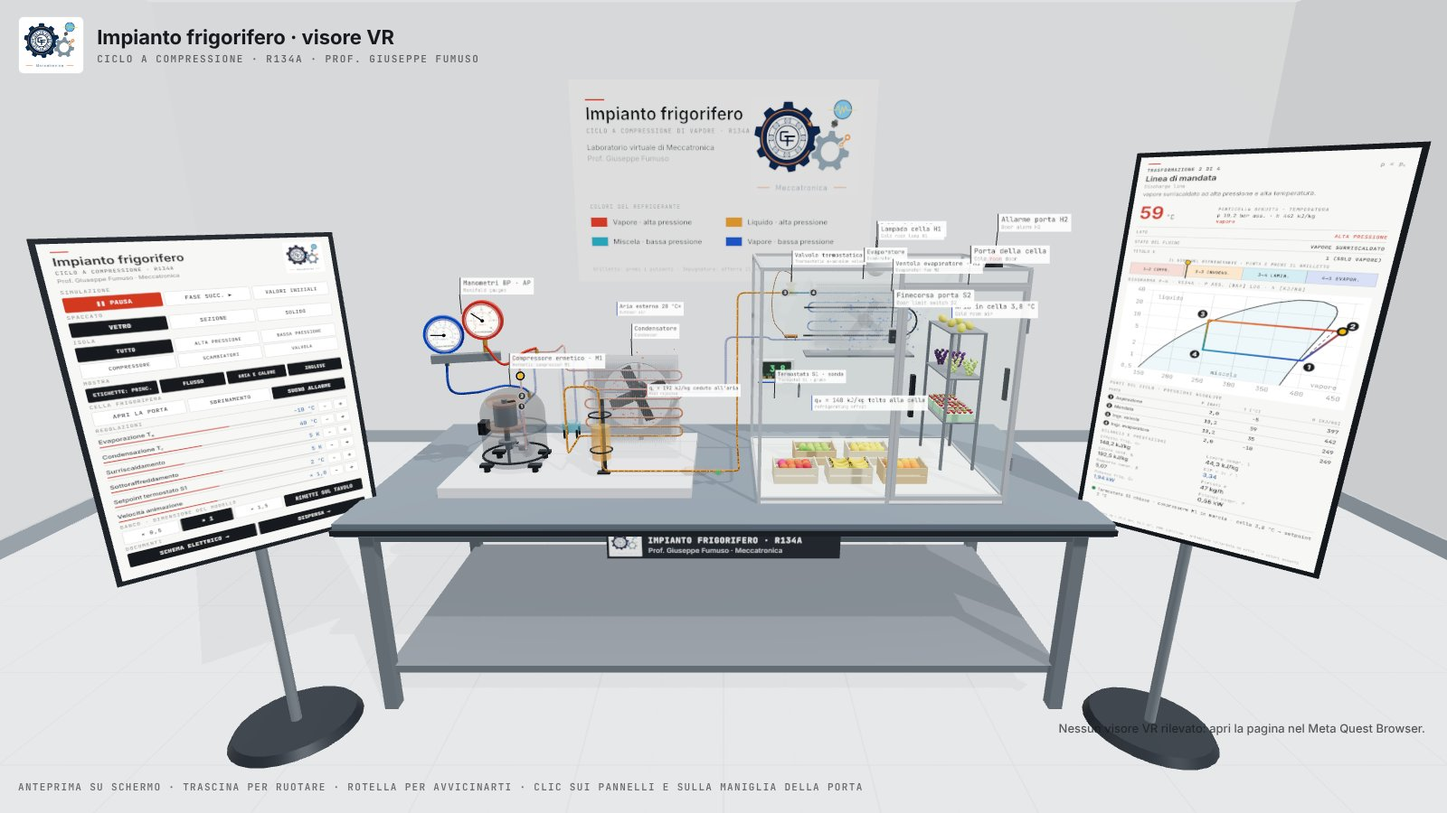
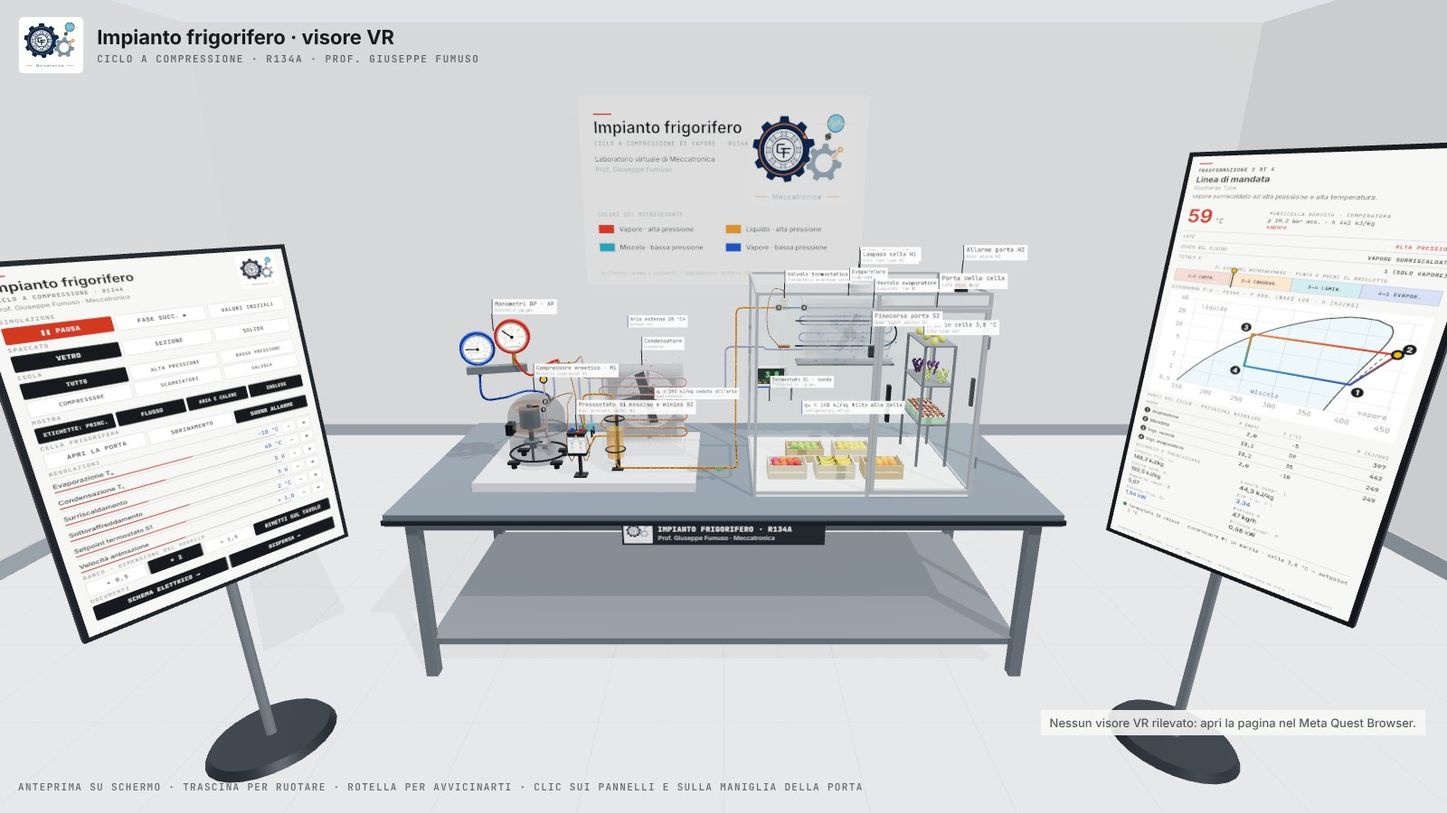
Pressostato di massima e minima B2 nel modello; pannelli riposizionati
- B2 con capillari su mandata e aspirazione, spie dei contatti e pulsante
  di riarmo P> (VR e simulatore 3D per PC)
- VR: pannelli laterali staccati dal banco, schema e dispensa davanti a
  destra e sempre in primo piano

Claude-Session: https://claude.ai/code/session_01RoLiFtmJP6vtpRuLRAKtBY

Changed region(s): [[0.0, 0.1556, 1.0, 0.9644], [0.4062, 0.1244, 0.5938, 0.2489], [0.9062, 0.7467, 0.9375, 0.7778]]

diff --git a/index.html b/index.html
@@ -410,7 +410,43 @@ hose('glp','#2c4fa8',[V(-1.0,0.51,0.20),V(-1.0,0.40,0.20),V(-0.98,0.33,0.0),V(-0
 hose('ghp','#b8321b',[V(-0.84,0.57,0.24),V(-0.78,0.50,0.24),V(-0.72,0.53,0.16),V(-0.69,0.535,0.115)]);
 add(cyl(0.006,0.006,0.022,10),mat('glp','brass','solid'),V(-0.82,0.266,-0.20));add(cyl(0.006,0.006,0.02,10),mat('ghp','brass','solid'),V(-0.69,0.52,0.11));
 
-const GZ=root.children.slice(GZ0);   // manometri, collettore e flessibili: visibili nelle viste d'insieme e del compressore
+const GZ=root.children.slice(GZ0);
+/* ---- pressostato combinato di massima e minima B2: P> sulla mandata (riarmo manuale), P< sull'aspirazione (riarmo automatico) ---- */
+const B2P=V(-0.60,0.205,0.245);
+const mB2=mat('b2','paint','solid'),mB2d=mat('b2','dark','solid'),mB2c=mat('b2','copper','solid'),mB2b=mat('b2','brass','solid');
+add(box(0.010,0.125,0.028),mB2d,V(B2P.x,0.1,B2P.z-0.03));                         // staffa sul basamento
+add(box(0.055,0.006,0.05),mB2d,V(B2P.x,0.043,B2P.z-0.03));
+add(box(0.075,0.092,0.048),mB2,B2P);                                               // corpo
+add(box(0.079,0.012,0.052),mB2d,V(B2P.x,B2P.y-0.046,B2P.z));
+add(box(0.079,0.006,0.052),mB2d,V(B2P.x,B2P.y+0.046,B2P.z));
+[-0.02,0.02].forEach((dx,i)=>{add(cyl(0.007,0.007,0.012,16),mat('b2',i?'hot':'cold','solid'),V(B2P.x+dx,B2P.y+0.055,B2P.z-0.008));   // viti di taratura P< (blu) e P> (rossa)
+  add(cyl(0.0035,0.0035,0.016,8),mB2b,V(B2P.x+dx,B2P.y-0.058,B2P.z-0.01));});                                                         // attacchi dei capillari
+const b2Cv=document.createElement('canvas');b2Cv.width=300;b2Cv.height=368;{const g=b2Cv.getContext('2d');
+  g.fillStyle='#e9ebec';g.fillRect(0,0,300,368);g.fillStyle='#16191d';g.fillRect(0,0,300,58);
+  g.fillStyle='#fff';g.font='700 34px "JetBrains Mono",monospace';g.textAlign='center';g.fillText('B2',150,42);
+  g.fillStyle='#16191d';g.font='600 21px "JetBrains Mono",monospace';g.fillText('PRESSOSTATO',150,92);
+  [[75,'#2456c8','P<','MIN','0,5 / 1,5'],[225,'#d2391f','P>','MAX','18 bar']].forEach(([x,c,a,b,t])=>{g.fillStyle=c;g.fillRect(x-62,112,124,8);
+    g.font='700 42px "JetBrains Mono",monospace';g.fillText(a,x,250);g.font='600 20px "JetBrains Mono",monospace';g.fillText(b,x,278);g.fillStyle='#566878';g.font='500 18px "JetBrains Mono",monospace';g.fillText(t,x,306);
+    g.strokeStyle='#16191d';g.lineWidth=3;g.beginPath();g.arc(x,165,26,0,7);g.stroke();});
+  g.fillStyle='#566878';g.font='500 16px "JetBrains Mono",monospace';g.fillText('bar rel. · R134a',150,350);}
+const b2Tex=new THREE.CanvasTexture(b2Cv);b2Tex.colorSpace=THREE.SRGBColorSpace;b2Tex.anisotropy=4;
+add(new THREE.PlaneGeometry(0.073,0.0895),new THREE.MeshBasicMaterial({map:b2Tex,toneMapped:false}),V(B2P.x,B2P.y,B2P.z+0.0245)).castShadow=false;
+const mLedL=mat('b2','dark','solid',null,{emissive:new THREE.Color('#20d060'),emissiveIntensity:1.2}),mLedH=mat('b2','dark','solid',null,{emissive:new THREE.Color('#20d060'),emissiveIntensity:1.2});
+add(new THREE.SphereGeometry(0.0052,14,10),mLedL,V(B2P.x-0.01825,B2P.y+0.0046,B2P.z+0.026));        // spia contatto P<
+add(new THREE.SphereGeometry(0.0052,14,10),mLedH,V(B2P.x+0.01825,B2P.y+0.0046,B2P.z+0.026));        // spia contatto P>
+const mRst=mat('b2','hot','solid',null,{emissive:new THREE.Color('#ff2a1a'),emissiveIntensity:0});
+add(cyl(0.0085,0.0085,0.007,20),mRst,V(B2P.x+0.006,B2P.y+0.0505,B2P.z+0.012));                                  // pulsante di riarmo P>
+var resetHit=new THREE.Mesh(box(0.03,0.03,0.04),new THREE.MeshBasicMaterial({transparent:true,opacity:0,depthWrite:false}));resetHit.position.set(B2P.x+0.006,B2P.y+0.055,B2P.z+0.012);root.add(resetHit);
+// capillari: P> alla linea di mandata, P< alla linea di aspirazione
+add(new THREE.TubeGeometry(new THREE.CatmullRomCurve3([V(B2P.x+0.02,B2P.y-0.066,B2P.z-0.01),V(B2P.x+0.03,B2P.y-0.085,B2P.z+0.0),V(B2P.x+0.045,B2P.y-0.05,B2P.z-0.02),V(-0.585,0.33,0.24),V(-0.615,0.45,0.20),V(-0.64,0.50,0.14),V(-0.645,0.513,0.112)]),90,0.0016,6),mB2c);
+add(new THREE.TubeGeometry(new THREE.CatmullRomCurve3([V(B2P.x-0.02,B2P.y-0.066,B2P.z-0.01),V(B2P.x-0.03,B2P.y-0.085,B2P.z+0.0),V(B2P.x-0.05,B2P.y-0.03,B2P.z-0.02),V(-0.645,0.30,0.20),V(-0.665,0.33,0.10),V(-0.685,0.33,-0.08),V(-0.76,0.30,-0.13),V(-0.81,0.272,-0.12),V(-0.82,0.258,-0.12)]),110,0.0016,6),mB2c);
+add(cyl(0.004,0.004,0.012,10),mB2b,V(-0.645,0.519,0.11));add(cyl(0.004,0.004,0.012,10),mB2b,V(-0.82,0.262,-0.12));
+function b2Update(now){const bl=now%700<350,on=cell.s0;
+  const led=(m,open)=>{m.emissive.set(open?'#ff2a1a':'#20d060');m.emissiveIntensity=!on?0:open?(bl?2.2:0.4):1.2;};
+  led(mLedL,cell.lpOpen);led(mLedH,cell.hpTrip);mRst.emissiveIntensity=cell.hpTrip&&on?(bl?1.6:0.5):0;}
+function doRearm(){if(cell.ph-ATM<14){cell.hpTrip=false;cell.simHp=false;}}
+
+   // manometri, collettore e flessibili: visibili nelle viste d'insieme e del compressore
 /* ---------- tubazioni: guscio di rame + fluido colorato ---------- */
 const RING=[];for(let i=0;i<PS.length;i+=2)RING.push(i);if(RING[RING.length-1]!==PS.length-1)RING.push(PS.length-1);const RS=8,NR=RING.length;
 function tubeGeo(scale){const pos=new Float32Array(NR*RS*3),nor=new Float32Array(NR*RS*3),col=new Float32Array(NR*RS*3).fill(1),idx=[];
@@ -438,7 +474,7 @@ const air=new THREE.InstancedMesh(new THREE.SphereGeometry(1,6,4),new THREE.Mesh
 /* ---------- stato dell'interfaccia ---------- */
 const UI={view:'insieme',cut:'vetro',iso:'tutto',lab:true,flow:true,air:true,en:true,run:true,speed:1,hidden:false};
 let C=cycle(-10,40,5,5);
-const ISO={tutto:null,ap:['comp','cond','liq','valv','ghp','dis'],bp:['comp','evap','valv','glp','suc','evin'],comp:['comp'],scamb:['cond','evap'],valv:['valv']};
+const ISO={tutto:null,ap:['comp','cond','liq','valv','ghp','dis','b2'],bp:['comp','evap','valv','glp','suc','evin','b2'],comp:['comp'],scamb:['cond','evap'],valv:['valv']};
 const ZGRP={comp:'comp',dis:'dis',cond:'cond',liq:'liq',tev:'valv',evin:'evin',evap:'evap',suc:'suc'};
 const inIso=g=>!ISO[UI.iso]||ISO[UI.iso].includes(g)||(g==='base'&&false);
 function applyLook(){
@@ -545,7 +581,7 @@ function cellMsg(s){let msg,cls='';
 function cellShort(s){let t,cls='';
   if(!s.s0){t='Q1 aperto · impianto senza tensione';cls='off';}
   else if(s.defrost){t='Sbrinamento T1 · resistenza E2 '+(s.heat?'inserita':'esclusa, sgocciolamento')+' · compressore e M3 fermi · ancora '+Math.ceil(DEF_T-s.dfT)+' s';cls='warn';}
-  else if(s.hpTrip){t='Pressostato di massima P> aperto · compressore fermo · riarmo nello schema elettrico';cls='crit';}
+  else if(s.hpTrip){t='Pressostato di massima P> aperto · compressore fermo · riarmo: pulsante sul pressostato o schema elettrico';cls='crit';}
   else if(s.lpOpen){t='Pressostato di minima P< aperto · compressore fermo';cls='crit';}
   else if(!s.th){t='Termostato S1 aperto · cella '+f(s.T)+' °C in temperatura · compressore fermo, riparte a '+f(s.sp+DIFF,0)+' °C';}
   else t='Termostato S1 chiuso · compressore M1 in marcia · cella '+f(s.T)+' °C → setpoint '+f(s.sp,0)+' °C';
@@ -745,7 +781,7 @@ function drawSch(p,g){const s=cell;updSchema();
   LEGEND.forEach((l,i)=>{const x=24+(i>=8?568:0),yy=y+(i%8)*31+26;T(g,l[0],x,yy,`700 18px ${FS}`,CI.ink);g.font=`400 18px ${FS}`;let t=l[1];while(g.measureText(t).width>430&&t.length>4)t=t.slice(0,-2)+'…';T(g,t,x+116,yy,`400 18px ${FS}`,CI.dim);});
   const X=1180,Wc=p.w-X-24;let yy=112;cap(g,'Comandi',X,yy);yy+=12;
   const bt=[['xS0','Q1 · Interruttore principale',()=>{cell.s0=!cell.s0;dirtyAll();},{on:s.s0}],['xDoor',s.door?'Chiudi la porta':'Apri la porta',()=>doDoor(),{kind:s.door?'crit':undefined}],['xDef',s.defrost?'Sbrinamento… '+Math.ceil(DEF_T-s.dfT)+' s':'Avvia sbrinamento T1',doDefrost,{on:s.defrost}],
-    ['xFHp','Simula intervento P>',()=>{cell.hpTrip=true;cell.simHp=true;dirtyAll();},{kind:s.hpTrip&&s.simHp?'crit':undefined}],['xRearm','Riarmo P>',()=>{if(cell.ph-ATM<14){cell.hpTrip=false;cell.simHp=false;}dirtyAll();}],
+    ['xFHp','Simula intervento P>',()=>{cell.hpTrip=true;cell.simHp=true;dirtyAll();},{kind:s.hpTrip&&s.simHp?'crit':undefined}],['xRearm','Riarmo P>',()=>{doRearm();dirtyAll();}],
     ['xFLp',s.fLp?'Rilascia P<':'Apri P<',()=>{cell.fLp=!cell.fLp;dirtyAll();},{kind:s.fLp?'crit':undefined}]];
   bt.forEach((b,i)=>{B(p,b[0],X,yy+i*54,Wc,46,b[1],b[2],{fs:17,...(b[3]||{})});});yy+=6*54+12;
   cap(g,'Ventola evaporatore M3',X,yy);yy+=12;B(p,'xCont',X,yy,Wc/2-5,46,'Continua',()=>{cell.fanMode='cont';dirtyAll();},{on:s.fanMode==='cont',fs:16});B(p,'xPar',X+Wc/2+5,yy,Wc/2-5,46,'Con compr.',()=>{cell.fanMode='par';dirtyAll();},{on:s.fanMode==='par',fs:16});yy+=62;
@@ -832,9 +868,10 @@ function drawDoc(p,g){g.fillStyle=CI.ink;g.fillRect(0,0,p.w,84);if(LOGO){g.fillS
   if(UI.doc==='sch')drawSch(p,g);else if(UI.doc==='disp')drawDisp(p,g);else if(UI.doc==='quiz')drawQuiz(p,g);}
 function openFull(){const go=()=>{location.href='dispensa-impianti-frigoriferi.html';};const s=XRM.getSession();if(s){s.end().then(go,go);}else window.open('dispensa-impianti-frigoriferi.html','_blank');}
 
-const cmdP=makePanel(1024,1420,0.74,V(-1.62,1.24,-0.74),0.72,drawCmd);
-const datP=makePanel(1024,1900,0.68,V(1.62,1.38,-0.74),-0.72,drawDat,true,0.8);
-const docP=makePanel(1600,1000,1.70,V(2.15,1.55,-2.10),-0.95,drawDoc,false);docP.mesh.visible=docP.frame.visible=false;
+const cmdP=makePanel(1024,1420,0.82,V(-1.80,1.26,-0.45),1.0,drawCmd);
+const datP=makePanel(1024,1900,0.76,V(1.80,1.44,-0.45),-1.0,drawDat,true,0.8);
+const docP=makePanel(1600,1000,1.85,V(0.95,1.72,-1.45),-0.58,drawDoc,false);docP.mesh.visible=docP.frame.visible=false;
+[[docP.mesh,31],[docP.frame,30]].forEach(([o,r])=>{o.material.depthTest=false;o.material.transparent=true;o.renderOrder=r;});   // finestra sempre in primo piano
 /* targa con logo sul fronte del banco e poster sulla parete */
 function canvasPlane(w,h,mw,draw){const cv=document.createElement('canvas');cv.width=w;cv.height=h;const g=cv.getContext('2d');draw(g,w,h);const t=new THREE.CanvasTexture(cv);t.colorSpace=THREE.SRGBColorSpace;t.anisotropy=8;
   const m=new THREE.Mesh(new THREE.PlaneGeometry(mw,mw*h/w),new THREE.MeshStandardMaterial({map:t,roughness:0.8}));m.receiveShadow=true;LAB.add(m);return m;}
@@ -859,7 +896,7 @@ const LBL=[
  ['Linea del liquido','Liquid line',V(0.08,0.40,-0.25),0],['Linea di mandata','Discharge line',V(-0.69,0.53,0.11),0],['Cella frigorifera','Cold room',V(0.60,0.87,0.0),1],['Termostato S1 · sonda','Thermostat S1 · probe',V(0.25,0.215,-0.33),1],
  ['Porta della cella','Cold room door',V(0.84,0.80,0.36),1],['Finecorsa porta S2','Door limit switch S2',V(0.60,0.65,0.33),1],['Lampada cella H1','Cold room lamp H1',V(0.60,0.86,0.02),1],['Allarme porta H2','Door alarm H2',V(0.95,0.90,0.28),1],
  ['Resistenza di sbrinamento E2','Defrost heater E2',V(0.47,0.52,-0.232),0],['Bacinella raccolta condensa','Condensate drain pan',V(0.78,0.44,-0.20),0],['Resistenza carter E1','Crankcase heater E1',V(-0.80,0.09,0.18),0],['Scatola morsettiera','Terminal box',V(-0.955,0.22,0.02),0],
- ['Manometro bassa pressione','Low-pressure gauge',V(-1.0,0.67,0.20),0],['Manometro alta pressione','High-pressure gauge',V(-0.84,0.73,0.24),0],['Collettore manometrico','Gauge manifold',V(-0.92,0.535,0.215),0],['Basamento unità condensatrice','Condensing unit base',V(-0.30,0.04,0.28),0]];
+ ['Manometro bassa pressione','Low-pressure gauge',V(-1.0,0.67,0.20),0],['Manometro alta pressione','High-pressure gauge',V(-0.84,0.73,0.24),0],['Collettore manometrico','Gauge manifold',V(-0.92,0.535,0.215),0],['Basamento unità condensatrice','Condensing unit base',V(-0.30,0.04,0.28),0],['Pressostato di massima e minima B2','Dual pressure switch B2',V(-0.60,0.262,0.25),1]];
 function labelCanvas(a,b,col=CI.ink){const cv=document.createElement('canvas'),g=cv.getContext('2d');const f1=`600 44px ${FM}`,f2=`500 32px ${FM}`;g.font=f1;let w=g.measureText(a).width;if(b){g.font=f2;w=Math.max(w,g.measureText(b).width);}
   cv.width=Math.ceil(w+44);cv.height=b?112:70;g.fillStyle='rgba(255,255,255,.9)';g.fillRect(0,0,cv.width,cv.height);g.fillStyle=col;g.fillRect(0,0,7,cv.height);T(g,a,24,b?50:50,f1,CI.ink);if(b)T(g,b,24,94,f2,CI.mute);return cv;}
 function spriteFrom(cv,center=[0,0]){const t=new THREE.CanvasTexture(cv);t.colorSpace=THREE.SRGBColorSpace;t.anisotropy=4;const s=new THREE.Sprite(new THREE.SpriteMaterial({map:t,depthTest:false,depthWrite:false,transparent:true,toneMapped:false}));
@@ -889,18 +926,18 @@ function ctrlModel(){const g=new THREE.Group(),m=lm('#2b3137',0.45,0.3),m2=lm('#
   const body=new THREE.Mesh(new THREE.CylinderGeometry(0.018,0.022,0.11,16),m);body.rotation.x=Math.PI/2-0.5;body.position.set(0,-0.02,0.04);g.add(body);
   const ring=new THREE.Mesh(new THREE.TorusGeometry(0.038,0.006,8,28),m2);ring.position.set(0,0.008,-0.01);ring.rotation.x=0.6;g.add(ring);return g;}
 const CTRL=[0,1].map(i=>{const c=XRM.getController(i),gr=XRM.getControllerGrip(i);scene.add(c,gr);gr.add(ctrlModel());
-  const line=new THREE.Line(new THREE.BufferGeometry().setFromPoints([V(0,0,0),V(0,0,-1)]),new THREE.LineBasicMaterial({color:CI.lamp,transparent:true,opacity:0.9}));line.scale.z=3;c.add(line);
-  const dot=new THREE.Mesh(new THREE.SphereGeometry(0.008,12,8),new THREE.MeshBasicMaterial({color:CI.lamp,toneMapped:false}));dot.visible=false;scene.add(dot);
+  const line=new THREE.Line(new THREE.BufferGeometry().setFromPoints([V(0,0,0),V(0,0,-1)]),new THREE.LineBasicMaterial({color:CI.lamp,transparent:true,opacity:0.9,depthTest:false}));line.scale.z=3;line.renderOrder=40;c.add(line);
+  const dot=new THREE.Mesh(new THREE.SphereGeometry(0.008,12,8),new THREE.MeshBasicMaterial({color:CI.lamp,toneMapped:false,transparent:true,depthTest:false}));dot.renderOrder=41;dot.visible=false;scene.add(dot);
   const o={i,c,gr,line,dot,src:null,prev:[],hit:null,hand:''};
   c.addEventListener('connected',e=>{o.src=e.data;o.hand=e.data.handedness||'';});c.addEventListener('disconnected',()=>{o.src=null;if(stage.parent===c)scene.attach(stage);});
   c.addEventListener('selectstart',()=>{audioInit();if(o.hit)press(o.hit,o);});
   c.addEventListener('squeezestart',()=>{c.attach(stage);pulse(0.4,40,o);});c.addEventListener('squeezeend',()=>{if(stage.parent===c){scene.attach(stage);dirtyAll();}});
   return o;});
 function pulse(v=0.5,ms=30,o){const L=o?[o]:CTRL;L.forEach(c=>{try{c.src?.gamepad?.hapticActuators?.[0]?.pulse(v,ms);}catch(e){}});}
-function targets(){const t=[cmdP.mesh,datP.mesh,handleHit];if(docP.mesh.visible)t.push(docP.mesh);return t;}
-function resolve(hit){if(!hit)return null;if(hit.object===handleHit)return{kind:'door'};const p=hit.object.userData.panel;if(!p||!hit.uv)return{kind:'panel',p};
+function targets(){const t=[cmdP.mesh,datP.mesh,handleHit,resetHit];if(docP.mesh.visible)t.push(docP.mesh);return t;}
+function resolve(hit){if(!hit)return null;if(hit.object===handleHit)return{kind:'door'};if(hit.object===resetHit)return{kind:'b2'};const p=hit.object.userData.panel;if(!p||!hit.uv)return{kind:'panel',p};
   const x=hit.uv.x*p.w,y=(1-hit.uv.y)*p.h;const b=p.btns.find(b=>x>=b.x&&x<=b.x+b.w&&y>=b.y&&y<=b.y+b.h);return{kind:'panel',p,b,u:b?(x-b.x)/b.w:0};}
-function press(h,o){if(h.kind==='door'){doDoor();pulse(0.5,40,o);return;}if(h.b){h.b.act(h.u);h.p.dirty=true;pulse(0.35,25,o);}}
+function press(h,o){if(h.kind==='door'){doDoor();pulse(0.5,40,o);return;}if(h.kind==='b2'){doRearm();dirtyAll();pulse(0.5,40,o);return;}if(h.b){h.b.act(h.u);h.p.dirty=true;pulse(0.35,25,o);}}
 function rayFrom(obj){_m4.identity().extractRotation(obj.matrixWorld);ray.ray.origin.setFromMatrixPosition(obj.matrixWorld);ray.ray.direction.set(0,0,-1).applyMatrix4(_m4);return ray.intersectObjects(targets(),false)[0]||null;}
 const btnOnce=(o,n)=>{const v=!!o.src?.gamepad?.buttons[n]?.pressed,was=o.prev[n];o.prev[n]=v;return v&&!was;};
 const dz=v=>Math.abs(v)<0.2?0:(v-Math.sign(v)*0.2)/0.8;
@@ -915,13 +952,13 @@ function xrInput(dt){const hov=new Map();let handHov=false;
   return{hov,handHov};}
 
 /* ---------- anteprima su schermo: orbita, clic sui pannelli ---------- */
-const orb={t:V(0,1.12,-1.15),az:0,el:0.30,d:2.6};let orbGoal=null,orbHome=null;
+const orb={t:V(0,1.12,-1.15),az:0,el:0.30,d:3.1};let orbGoal=null,orbHome=null;
 function focusDoc(on){if(XRM.isPresenting)return;if(on){if(!orbHome)orbHome={t:orb.t.clone(),az:orb.az,el:orb.el,d:orb.d};const yaw=docP.grp.rotation.y;orbGoal={t:docP.grp.position.clone(),az:yaw,el:0.06,d:Math.max(1.25,1.0/Math.tan(camera.fov*Math.PI/360)*0.6,0.95/(Math.tan(camera.fov*Math.PI/360)*camera.aspect))};}else if(orbHome){orbGoal=orbHome;orbHome=null;}}
 function orbitCam(){camera.position.set(orb.t.x+orb.d*Math.sin(orb.az)*Math.cos(orb.el),orb.t.y+orb.d*Math.sin(orb.el),orb.t.z+orb.d*Math.cos(orb.az)*Math.cos(orb.el));camera.lookAt(orb.t);}
 const mouse=new THREE.Vector2();let mHit=null,drag=null;
 function mouseHit(e){const r=canvas.getBoundingClientRect();mouse.set((e.clientX-r.left)/r.width*2-1,-(e.clientY-r.top)/r.height*2+1);ray.setFromCamera(mouse,camera);return resolve(ray.intersectObjects(targets(),false)[0]||null);}
-canvas.addEventListener('pointerdown',e=>{audioInit();if(XRM.isPresenting)return;const h=mouseHit(e);if(h&&(h.b||h.kind==='door')){press(h);return;}orbGoal=null;drag={x:e.clientX,y:e.clientY,az:orb.az,el:orb.el,b:e.button,t:orb.t.clone()};canvas.setPointerCapture(e.pointerId);});
-canvas.addEventListener('pointermove',e=>{if(XRM.isPresenting)return;if(!drag){mHit=mouseHit(e);canvas.style.cursor=mHit&&(mHit.b||mHit.kind==='door')?'pointer':'grab';return;}
+canvas.addEventListener('pointerdown',e=>{audioInit();if(XRM.isPresenting)return;const h=mouseHit(e);if(h&&(h.b||h.kind==='door'||h.kind==='b2')){press(h);return;}orbGoal=null;drag={x:e.clientX,y:e.clientY,az:orb.az,el:orb.el,b:e.button,t:orb.t.clone()};canvas.setPointerCapture(e.pointerId);});
+canvas.addEventListener('pointermove',e=>{if(XRM.isPresenting)return;if(!drag){mHit=mouseHit(e);canvas.style.cursor=mHit&&(mHit.b||mHit.kind==='door'||mHit.kind==='b2')?'pointer':'grab';return;}
   const dx=(e.clientX-drag.x)/innerHeight,dy=(e.clientY-drag.y)/innerHeight;
   if(drag.b===2||e.shiftKey){const r=V(Math.cos(orb.az),0,-Math.sin(orb.az));orb.t.copy(drag.t).addScaledVector(r,-dx*orb.d).add(V(0,dy*orb.d,0));}else{orb.az=drag.az-dx*3.2;orb.el=clamp(drag.el+dy*2.4,-0.2,1.35);}});
 canvas.addEventListener('pointerup',()=>{drag=null;});canvas.addEventListener('contextmenu',e=>e.preventDefault());
@@ -975,7 +1012,7 @@ function frame(now){const dt=Math.min(0.05,(now-last)/1000);last=now;const XR=XR
   if(cell.alarm&&cell.s0&&UI.run)buzzer();
   root.userData.mE1.emissiveIntensity=cell.s0&&!cell.km?0.8:0;mE2.emissiveIntensity=cell.heat?1.8:0;
   frostM.opacity=0.82*Math.pow(cell.frost,0.8)*(ON&&!ON.includes('evap')?0.08:1);frostB.visible=cell.frost>0.01;
-  sgWin.material.emissiveIntensity=C.SC>0?0.35:0.1;
+  sgWin.material.emissiveIntensity=C.SC>0?0.35:0.1;b2Update(now);
   // modello nel laboratorio: piani di sezione, luce della cella, alone della particella rivolto all'osservatore
   updatePlanes();root.getWorldScale(WS);lampL.distance=0.85*WS.x;
   const cam=XR?XRM.getCamera():camera;cam.getWorldQuaternion(_q);tracer.parent.getWorldQuaternion(_q2);halo.quaternion.copy(_q2.invert().multiply(_q));
@@ -994,7 +1031,7 @@ PANELS.forEach(p=>{if(p!==docP)render(p);});
 if(renderer.compileAsync)await renderer.compileAsync(scene,camera);
 $('load').remove();
 renderer.setAnimationLoop(frame);
-window.__sim={_cam:camera,_svg:()=>schemaSVG(cell),info:()=>({calls:renderer.info.render.calls,tri:renderer.info.render.triangles,geo:renderer.info.memory.geometries,tex:renderer.info.memory.textures,prog:renderer.info.programs.length}),cell,UI,VAL,stage,doDoor,doCut,doIso,doDoc,doPlay,doSize,homeStage,nextPhase,PANELS,orb,press,resolve,C:()=>C,get trOff(){return trOff;}};
+window.__sim={noFocus:()=>{orbGoal=null;orbHome=null;},_cam:camera,_svg:()=>schemaSVG(cell),info:()=>({calls:renderer.info.render.calls,tri:renderer.info.render.triangles,geo:renderer.info.memory.geometries,tex:renderer.info.memory.textures,prog:renderer.info.programs.length}),cell,UI,VAL,stage,doDoor,doCut,doIso,doDoc,doPlay,doSize,homeStage,nextPhase,PANELS,orb,press,resolve,C:()=>C,get trOff(){return trOff;}};
 
 }
 

diff --git a/Impianto-frigorifero-simulatore-3D.html b/Impianto-frigorifero-simulatore-3D.html
@@ -689,7 +689,43 @@ hose('glp','#2c4fa8',[V(-1.0,0.51,0.20),V(-1.0,0.40,0.20),V(-0.98,0.33,0.0),V(-0
 hose('ghp','#b8321b',[V(-0.84,0.57,0.24),V(-0.78,0.50,0.24),V(-0.72,0.53,0.16),V(-0.69,0.535,0.115)]);
 add(cyl(0.006,0.006,0.022,10),mat('glp','brass','solid'),V(-0.82,0.266,-0.20));add(cyl(0.006,0.006,0.02,10),mat('ghp','brass','solid'),V(-0.69,0.52,0.11));
 
-const GZ=root.children.slice(GZ0);   // manometri, collettore e flessibili: visibili nelle viste d'insieme e del compressore
+const GZ=root.children.slice(GZ0);
+/* ---- pressostato combinato di massima e minima B2: P> sulla mandata (riarmo manuale), P< sull'aspirazione (riarmo automatico) ---- */
+const B2P=V(-0.60,0.205,0.245);
+const mB2=mat('b2','paint','solid'),mB2d=mat('b2','dark','solid'),mB2c=mat('b2','copper','solid'),mB2b=mat('b2','brass','solid');
+add(box(0.010,0.125,0.028),mB2d,V(B2P.x,0.1,B2P.z-0.03));                         // staffa sul basamento
+add(box(0.055,0.006,0.05),mB2d,V(B2P.x,0.043,B2P.z-0.03));
+add(box(0.075,0.092,0.048),mB2,B2P);                                               // corpo
+add(box(0.079,0.012,0.052),mB2d,V(B2P.x,B2P.y-0.046,B2P.z));
+add(box(0.079,0.006,0.052),mB2d,V(B2P.x,B2P.y+0.046,B2P.z));
+[-0.02,0.02].forEach((dx,i)=>{add(cyl(0.007,0.007,0.012,16),mat('b2',i?'hot':'cold','solid'),V(B2P.x+dx,B2P.y+0.055,B2P.z-0.008));   // viti di taratura P< (blu) e P> (rossa)
+  add(cyl(0.0035,0.0035,0.016,8),mB2b,V(B2P.x+dx,B2P.y-0.058,B2P.z-0.01));});                                                         // attacchi dei capillari
+const b2Cv=document.createElement('canvas');b2Cv.width=300;b2Cv.height=368;{const g=b2Cv.getContext('2d');
+  g.fillStyle='#e9ebec';g.fillRect(0,0,300,368);g.fillStyle='#16191d';g.fillRect(0,0,300,58);
+  g.fillStyle='#fff';g.font='700 34px "JetBrains Mono",monospace';g.textAlign='center';g.fillText('B2',150,42);
+  g.fillStyle='#16191d';g.font='600 21px "JetBrains Mono",monospace';g.fillText('PRESSOSTATO',150,92);
+  [[75,'#2456c8','P<','MIN','0,5 / 1,5'],[225,'#d2391f','P>','MAX','18 bar']].forEach(([x,c,a,b,t])=>{g.fillStyle=c;g.fillRect(x-62,112,124,8);
+    g.font='700 42px "JetBrains Mono",monospace';g.fillText(a,x,250);g.font='600 20px "JetBrains Mono",monospace';g.fillText(b,x,278);g.fillStyle='#566878';g.font='500 18px "JetBrains Mono",monospace';g.fillText(t,x,306);
+    g.strokeStyle='#16191d';g.lineWidth=3;g.beginPath();g.arc(x,165,26,0,7);g.stroke();});
+  g.fillStyle='#566878';g.font='500 16px "JetBrains Mono",monospace';g.fillText('bar rel. · R134a',150,350);}
+const b2Tex=new THREE.CanvasTexture(b2Cv);b2Tex.colorSpace=THREE.SRGBColorSpace;b2Tex.anisotropy=4;
+add(new THREE.PlaneGeometry(0.073,0.0895),new THREE.MeshBasicMaterial({map:b2Tex,toneMapped:false}),V(B2P.x,B2P.y,B2P.z+0.0245)).castShadow=false;
+const mLedL=mat('b2','dark','solid',null,{emissive:new THREE.Color('#20d060'),emissiveIntensity:1.2}),mLedH=mat('b2','dark','solid',null,{emissive:new THREE.Color('#20d060'),emissiveIntensity:1.2});
+add(new THREE.SphereGeometry(0.0052,14,10),mLedL,V(B2P.x-0.01825,B2P.y+0.0046,B2P.z+0.026));        // spia contatto P<
+add(new THREE.SphereGeometry(0.0052,14,10),mLedH,V(B2P.x+0.01825,B2P.y+0.0046,B2P.z+0.026));        // spia contatto P>
+const mRst=mat('b2','hot','solid',null,{emissive:new THREE.Color('#ff2a1a'),emissiveIntensity:0});
+add(cyl(0.0085,0.0085,0.007,20),mRst,V(B2P.x+0.006,B2P.y+0.0505,B2P.z+0.012));                                  // pulsante di riarmo P>
+var resetHit=new THREE.Mesh(box(0.03,0.03,0.04),new THREE.MeshBasicMaterial({transparent:true,opacity:0,depthWrite:false}));resetHit.position.set(B2P.x+0.006,B2P.y+0.055,B2P.z+0.012);root.add(resetHit);
+// capillari: P> alla linea di mandata, P< alla linea di aspirazione
+add(new THREE.TubeGeometry(new THREE.CatmullRomCurve3([V(B2P.x+0.02,B2P.y-0.066,B2P.z-0.01),V(B2P.x+0.03,B2P.y-0.085,B2P.z+0.0),V(B2P.x+0.045,B2P.y-0.05,B2P.z-0.02),V(-0.585,0.33,0.24),V(-0.615,0.45,0.20),V(-0.64,0.50,0.14),V(-0.645,0.513,0.112)]),90,0.0016,6),mB2c);
+add(new THREE.TubeGeometry(new THREE.CatmullRomCurve3([V(B2P.x-0.02,B2P.y-0.066,B2P.z-0.01),V(B2P.x-0.03,B2P.y-0.085,B2P.z+0.0),V(B2P.x-0.05,B2P.y-0.03,B2P.z-0.02),V(-0.645,0.30,0.20),V(-0.665,0.33,0.10),V(-0.685,0.33,-0.08),V(-0.76,0.30,-0.13),V(-0.81,0.272,-0.12),V(-0.82,0.258,-0.12)]),110,0.0016,6),mB2c);
+add(cyl(0.004,0.004,0.012,10),mB2b,V(-0.645,0.519,0.11));add(cyl(0.004,0.004,0.012,10),mB2b,V(-0.82,0.262,-0.12));
+function b2Update(now){const bl=now%700<350,on=cell.s0;
+  const led=(m,open)=>{m.emissive.set(open?'#ff2a1a':'#20d060');m.emissiveIntensity=!on?0:open?(bl?2.2:0.4):1.2;};
+  led(mLedL,cell.lpOpen);led(mLedH,cell.hpTrip);mRst.emissiveIntensity=cell.hpTrip&&on?(bl?1.6:0.5):0;}
+function doRearm(){if(cell.ph-ATM<14){cell.hpTrip=false;cell.simHp=false;}}
+
+   // manometri, collettore e flessibili: visibili nelle viste d'insieme e del compressore
 /* ---------- tubazioni: guscio di rame + fluido colorato ---------- */
 const RS=10,NR=PS.length;
 function tubeGeo(scale){const pos=new Float32Array(NR*RS*3),nor=new Float32Array(NR*RS*3),col=new Float32Array(NR*RS*3).fill(1),idx=[];
@@ -717,7 +753,7 @@ const air=new THREE.InstancedMesh(new THREE.SphereGeometry(1,8,6),new THREE.Mesh
 /* ---------- stato dell'interfaccia ---------- */
 const UI={view:'insieme',cut:'vetro',iso:'tutto',lab:true,flow:true,air:true,en:true,run:true,speed:1,hidden:false};
 let C=cycle(-10,40,5,5);
-const ISO={tutto:null,ap:['comp','cond','liq','valv','ghp','dis'],bp:['comp','evap','valv','glp','suc','evin'],comp:['comp'],scamb:['cond','evap'],valv:['valv']};
+const ISO={tutto:null,ap:['comp','cond','liq','valv','ghp','dis','b2'],bp:['comp','evap','valv','glp','suc','evin','b2'],comp:['comp'],scamb:['cond','evap'],valv:['valv']};
 const ZGRP={comp:'comp',dis:'dis',cond:'cond',liq:'liq',tev:'valv',evin:'evin',evap:'evap',suc:'suc'};
 const inIso=g=>!ISO[UI.iso]||ISO[UI.iso].includes(g)||(g==='base'&&false);
 function applyLook(){
@@ -739,7 +775,7 @@ function recolor(){const cc=core.geometry.attributes.color.array,pc=pipe.geometr
   core.geometry.attributes.color.needsUpdate=true;pipe.geometry.attributes.color.needsUpdate=true;}
 
 /* ---------- camera: orbita e viste ---------- */
-const VIEWS={cella:{t:V(0.62,0.42,0.04),az:-0.38,po:1.2,d:1.95},insieme:{t:V(-0.03,0.32,0.0),az:-0.30,po:1.14,d:3.05},comp:{t:V(-0.81,0.17,0.05),az:-0.12,po:1.3,d:0.70},cond:{t:V(-0.30,0.26,-0.03),az:0.58,po:1.22,d:1.32},valv:{t:V(0.29,0.63,-0.25),az:-0.2,po:1.3,d:0.72},evap:{t:V(0.60,0.59,-0.24),az:0.16,po:1.33,d:1.05}};
+const VIEWS={cella:{t:V(0.62,0.42,0.04),az:-0.38,po:1.2,d:1.95},insieme:{t:V(-0.03,0.32,0.0),az:-0.30,po:1.14,d:3.05},comp:{t:V(-0.73,0.19,0.11),az:-0.05,po:1.28,d:0.86},cond:{t:V(-0.30,0.26,-0.03),az:0.58,po:1.22,d:1.32},valv:{t:V(0.29,0.63,-0.25),az:-0.2,po:1.3,d:0.72},evap:{t:V(0.60,0.59,-0.24),az:0.16,po:1.33,d:1.05}};
 const cam={t:VIEWS.insieme.t.clone(),az:VIEWS.insieme.az,po:VIEWS.insieme.po,d:VIEWS.insieme.d},tw={on:false};
 function goView(v){UI.view=v;const g=VIEWS[v];tw.on=true;tw.t0=performance.now();tw.dur=1300;tw.a={t:cam.t.clone(),az:cam.az,po:cam.po,d:cam.d};
   let az=g.az;while(az-tw.a.az>Math.PI)az-=2*Math.PI;while(az-tw.a.az<-Math.PI)az+=2*Math.PI;tw.b={t:g.t.clone(),az,po:g.po,d:g.d};}
@@ -814,6 +850,7 @@ const LBL=[
  ['Manometro alta pressione','High-pressure gauge',V(-0.84,0.73,0.24),0.03,['comp']],
  ['Collettore manometrico','Gauge manifold',V(-0.92,0.535,0.215),0.03,['comp']],
  ['Basamento unità condensatrice','Condensing unit base',V(-0.30,0.04,0.28),0.03,['cond']],
+ ['Pressostato di massima e minima B2','Dual pressure switch B2',V(-0.60,0.262,0.25),0.03,['insieme','comp','cond']],
 ];
 const lab=$('lab');const LEL=LBL.map(()=>{const d=document.createElement('div');d.className='l';lab.appendChild(d);return d;});
 const PNT=[[1,V(-0.82,0.25,-0.075)],[2,V(-0.76,0.345,0.11)],[3,V(0.28,0.70,-0.25)],[4,V(0.40,0.70,-0.25)]].map(([n,p])=>{const d=document.createElement('div');d.className='l p';d.textContent=n;lab.appendChild(d);return{d,p};});
@@ -872,6 +909,7 @@ function onHandle(e){const r=canvas.getBoundingClientRect();_m.set((e.clientX-r.
 let hov=false;
 canvas.addEventListener('pointermove',e=>{if(drag)return;const h=onHandle(e);if(h!==hov){hov=h;canvas.style.cursor=h?'pointer':'';mHandle.emissiveIntensity=h?0.6:0;}});
 canvas.addEventListener('pointerup',e=>{if(drag&&Math.hypot(e.clientX-drag.x,e.clientY-drag.y)<5&&drag.b===0&&onHandle(e))doDoor();});
+canvas.addEventListener('pointerup',e=>{if(!drag||Math.hypot(e.clientX-drag.x,e.clientY-drag.y)>=5||drag.b!==0)return;const r=canvas.getBoundingClientRect();_m.set((e.clientX-r.left)/r.width*2-1,-(e.clientY-r.top)/r.height*2+1);ray.setFromCamera(_m,camera);if(ray.intersectObject(resetHit,false).length){doRearm();renderCellUI(true);}});
 canvas.addEventListener('pointerdown',e=>{user();drag={x:e.clientX,y:e.clientY,b:e.button,az:cam.az,po:cam.po,t:cam.t.clone()};canvas.setPointerCapture(e.pointerId);tw.on=false;});
 canvas.addEventListener('pointermove',e=>{if(!drag)return;const dx=(e.clientX-drag.x)/H,dy=(e.clientY-drag.y)/H;
   if(drag.b===2||e.shiftKey){const r=V(Math.cos(cam.az),0,-Math.sin(cam.az)),u=V(0,1,0);cam.t.copy(drag.t).addScaledVector(r,-dx*cam.d*1.1).addScaledVector(u,dy*cam.d*1.1);}
@@ -968,7 +1006,7 @@ function cellMsg(s){let msg,cls='';
 function cellShort(s){let t,cls='';
   if(!s.s0){t='Q1 aperto · impianto senza tensione';cls='off';}
   else if(s.defrost){t='Sbrinamento T1 · resistenza E2 '+(s.heat?'inserita':'esclusa, sgocciolamento')+' · compressore e M3 fermi · ancora '+Math.ceil(DEF_T-s.dfT)+' s';cls='warn';}
-  else if(s.hpTrip){t='Pressostato di massima P> aperto · compressore fermo · riarmo nello schema elettrico';cls='crit';}
+  else if(s.hpTrip){t='Pressostato di massima P> aperto · compressore fermo · riarmo: pulsante sul pressostato o schema elettrico';cls='crit';}
   else if(s.lpOpen){t='Pressostato di minima P< aperto · compressore fermo';cls='crit';}
   else if(!s.th){t='Termostato S1 aperto · cella '+f(s.T)+' °C in temperatura · compressore fermo, riparte a '+f(s.sp+DIFF,0)+' °C';}
   else t='Termostato S1 chiuso · compressore M1 in marcia · cella '+f(s.T)+' °C → setpoint '+f(s.sp,0)+' °C';
@@ -998,7 +1036,7 @@ $('bDef').addEventListener('click',()=>{user();doDefrost();});$('xDef').addEvent
 $('bSch').addEventListener('click',()=>{user();doSch(true);});$('schX').addEventListener('click',()=>{user();doSch(false);});
 $('xS0').addEventListener('click',()=>{user();cell.s0=!cell.s0;renderCellUI(true);});
 $('xFHp').addEventListener('click',()=>{user();cell.hpTrip=true;cell.simHp=true;renderCellUI(true);});
-$('xRearm').addEventListener('click',()=>{user();if(cell.ph-ATM<14){cell.hpTrip=false;cell.simHp=false;}renderCellUI(true);});
+$('xRearm').addEventListener('click',()=>{user();doRearm();renderCellUI(true);});
 $('xFLp').addEventListener('click',()=>{user();cell.fLp=!cell.fLp;renderCellUI(true);});
 $('xCont').addEventListener('click',()=>{user();cell.fanMode='cont';renderCellUI(true);});$('xPar').addEventListener('click',()=>{user();cell.fanMode='par';renderCellUI(true);});
 $('sSP').addEventListener('input',e=>{user();cell.sp=+e.target.value;$('oSP').textContent=f(cell.sp,0)+' °C';});
@@ -1096,7 +1134,7 @@ function frame(now){const dt=Math.min(0.05,(now-last)/1000);last=now;
   root.userData.mE1.emissiveIntensity=cell.s0&&!cell.km?0.8:0;mE2.emissiveIntensity=cell.heat?1.8:0;
   frostM.opacity=0.82*Math.pow(cell.frost,0.8)*(ON&&!ON.includes('evap')?0.08:1);frostB.visible=cell.frost>0.01;
   thT+=dt;if(thT>0.25){thT=0;drawThermo();renderCellUI(false);}
-  sgWin.material.emissiveIntensity=C.SC>0?0.35:0.1;
+  sgWin.material.emissiveIntensity=C.SC>0?0.35:0.1;b2Update(now);
   const gv=UI.view==='insieme'||UI.view==='comp';const fh=UI.view==='evap'||UI.view==='valv';FRONT.forEach(o=>o.visible=!fh);GZ.forEach(o=>o.visible=gv);
   camUpdate(now);renderer.render(scene,camera);
   // pannelli

diff --git a/README.md b/README.md
@@ -24,6 +24,7 @@ Simulatore didattico in realtà virtuale di un **impianto frigorifero a R134a** 
 - Aprire l'impianto con lo **spaccato**: vetro, sezione, solido (nel compressore si vedono motore, manovella, biella e pistone).
 - **Isolare** il lato di alta pressione, il lato di bassa pressione, il compressore, gli scambiatori o la valvola.
 - Vedere l'**aria** che attraversa condensatore ed evaporatore e il **calore** scambiato (q꜀ ceduto all'aria, q₀ tolto alla cella).
+- Osservare il **pressostato combinato di massima e minima B2**, montato accanto al compressore: un capillare va alla linea di mandata (P>, alta pressione) e uno alla linea di aspirazione (P<, bassa pressione). Le due spie sul frontale sono verdi a contatto chiuso e lampeggiano rosse quando il pressostato interviene; il **pulsante di riarmo** di P> lampeggia e si preme con il grilletto (su PC con un clic).
 - Lavorare sulla **cella frigorifera**: aprire la porta con il grilletto sulla maniglia (lampada H1, ventola M3 ferma, allarme H2 dopo 10 s), avviare lo **sbrinamento**, leggere il termostato S1 e i manometri di bassa e alta pressione.
 - Cambiare le **regolazioni** con i pulsanti − e +: temperatura di evaporazione e di condensazione, surriscaldamento, sottoraffreddamento, setpoint del termostato, velocità dell'animazione. Diagramma p–h, punti del ciclo, COP e potenze si aggiornano subito.
 - Mostrare le **etichette** sui componenti (principali o tutte) e i **termini in inglese**.
@@ -34,7 +35,7 @@ Simulatore didattico in realtà virtuale di un **impianto frigorifero a R134a** 
 
 | Comando | Azione |
 |---|---|
-| **Grilletto** | Preme i pulsanti dei pannelli; sulla striscia del ciclo sposta la particella seguita; sulla maniglia apre e chiude la porta della cella |
+| **Grilletto** | Preme i pulsanti dei pannelli; sulla striscia del ciclo sposta la particella seguita; sulla maniglia apre e chiude la porta della cella; sul pulsante del pressostato B2 riarma P> |
 | **Impugnatura** (tasto laterale) | Afferra l'impianto per spostarlo e girarlo |
 | **Levetta destra** ← → | Ruota l'impianto |
 | **Levetta destra** ↑ ↓ | Ingrandisce o rimpicciolisce l'impianto |
@@ -53,7 +54,7 @@ Il pulsante **RIMETTI SUL TAVOLO** del pannello riporta l'impianto sul banco, ne
 2. Digita l'indirizzo del simulatore (conviene salvarlo nei preferiti).
 3. Premi il pulsante rosso **ENTRA NEL VISORE** e consenti l'accesso alla realtà virtuale.
 
-Ti trovi in piedi davanti al banco: a sinistra il **pannello dei comandi**, a destra il **pannello dei dati**, sulla parete il poster con i colori del refrigerante. Lo schema elettrico e la dispensa si aprono in un pannello più grande alla destra del banco.
+Ti trovi in piedi davanti al banco: a sinistra il **pannello dei comandi**, a destra il **pannello dei dati**, sulla parete il poster con i colori del refrigerante. Lo schema elettrico e la dispensa si aprono in un pannello più grande, davanti a destra sopra la cella, sempre in primo piano; si chiude con **✕ CHIUDI**.
 
 La pagina funziona solo da un indirizzo **https** (come quello di GitHub Pages): aperta come file dal disco o da un indirizzo http, il visore non entra in realtà virtuale.
 
@@ -85,6 +86,7 @@ https://homeassistant500-png.github.io/Impianto-frigorifero-vr/Impianto-frigorif
 - Viste preimpostate: insieme, compressore, condensatore, valvola, evaporatore, cella.
 - Spaccato, isolamento, flusso, aria e calore, etichette e termini in inglese.
 - Pannelli in tempo reale: trasformazione, punti del ciclo, bilancio e prestazioni, diagramma p–h.
+- Pressostato di massima e minima B2 con spie e pulsante di riarmo cliccabile.
 - Schema elettrico funzionale e dispensa interattiva incorporata.
 - **Tour automatico:** se nessuno tocca la pagina il simulatore si presenta da solo.
 - **Tasti:** spazio pausa · 1–6 viste · D porta · H nasconde i pannelli.
@@ -103,7 +105,7 @@ Il file funziona anche **senza Internet**: basta scaricare `Impianto-frigorifero
 | Rendimento isoentropico | 0,75 |
 | Rendimento volumetrico | 1 − 0,05 (β − 1), limitato fra 0,3 e 1 |
 | Termostato S1 | setpoint 2 °C, differenziale 2 K |
-| Pressostato di massima P> | 18 bar relativi, riarmo manuale (si riarma sotto 14 bar) |
+| Pressostato di massima P> | 18 bar relativi, riarmo manuale con il pulsante sul pressostato o dallo schema (si riarma sotto 14 bar) |
 | Pressostato di minima P< | apre a 0,5 bar, richiude a 1,5 bar relativi |
 | Allarme porta aperta | ritardo 10 s (temporizzatore KT1) |
 | Termostato fine sbrinamento B3 | apre a +10 °C, richiude a +3 °C |
